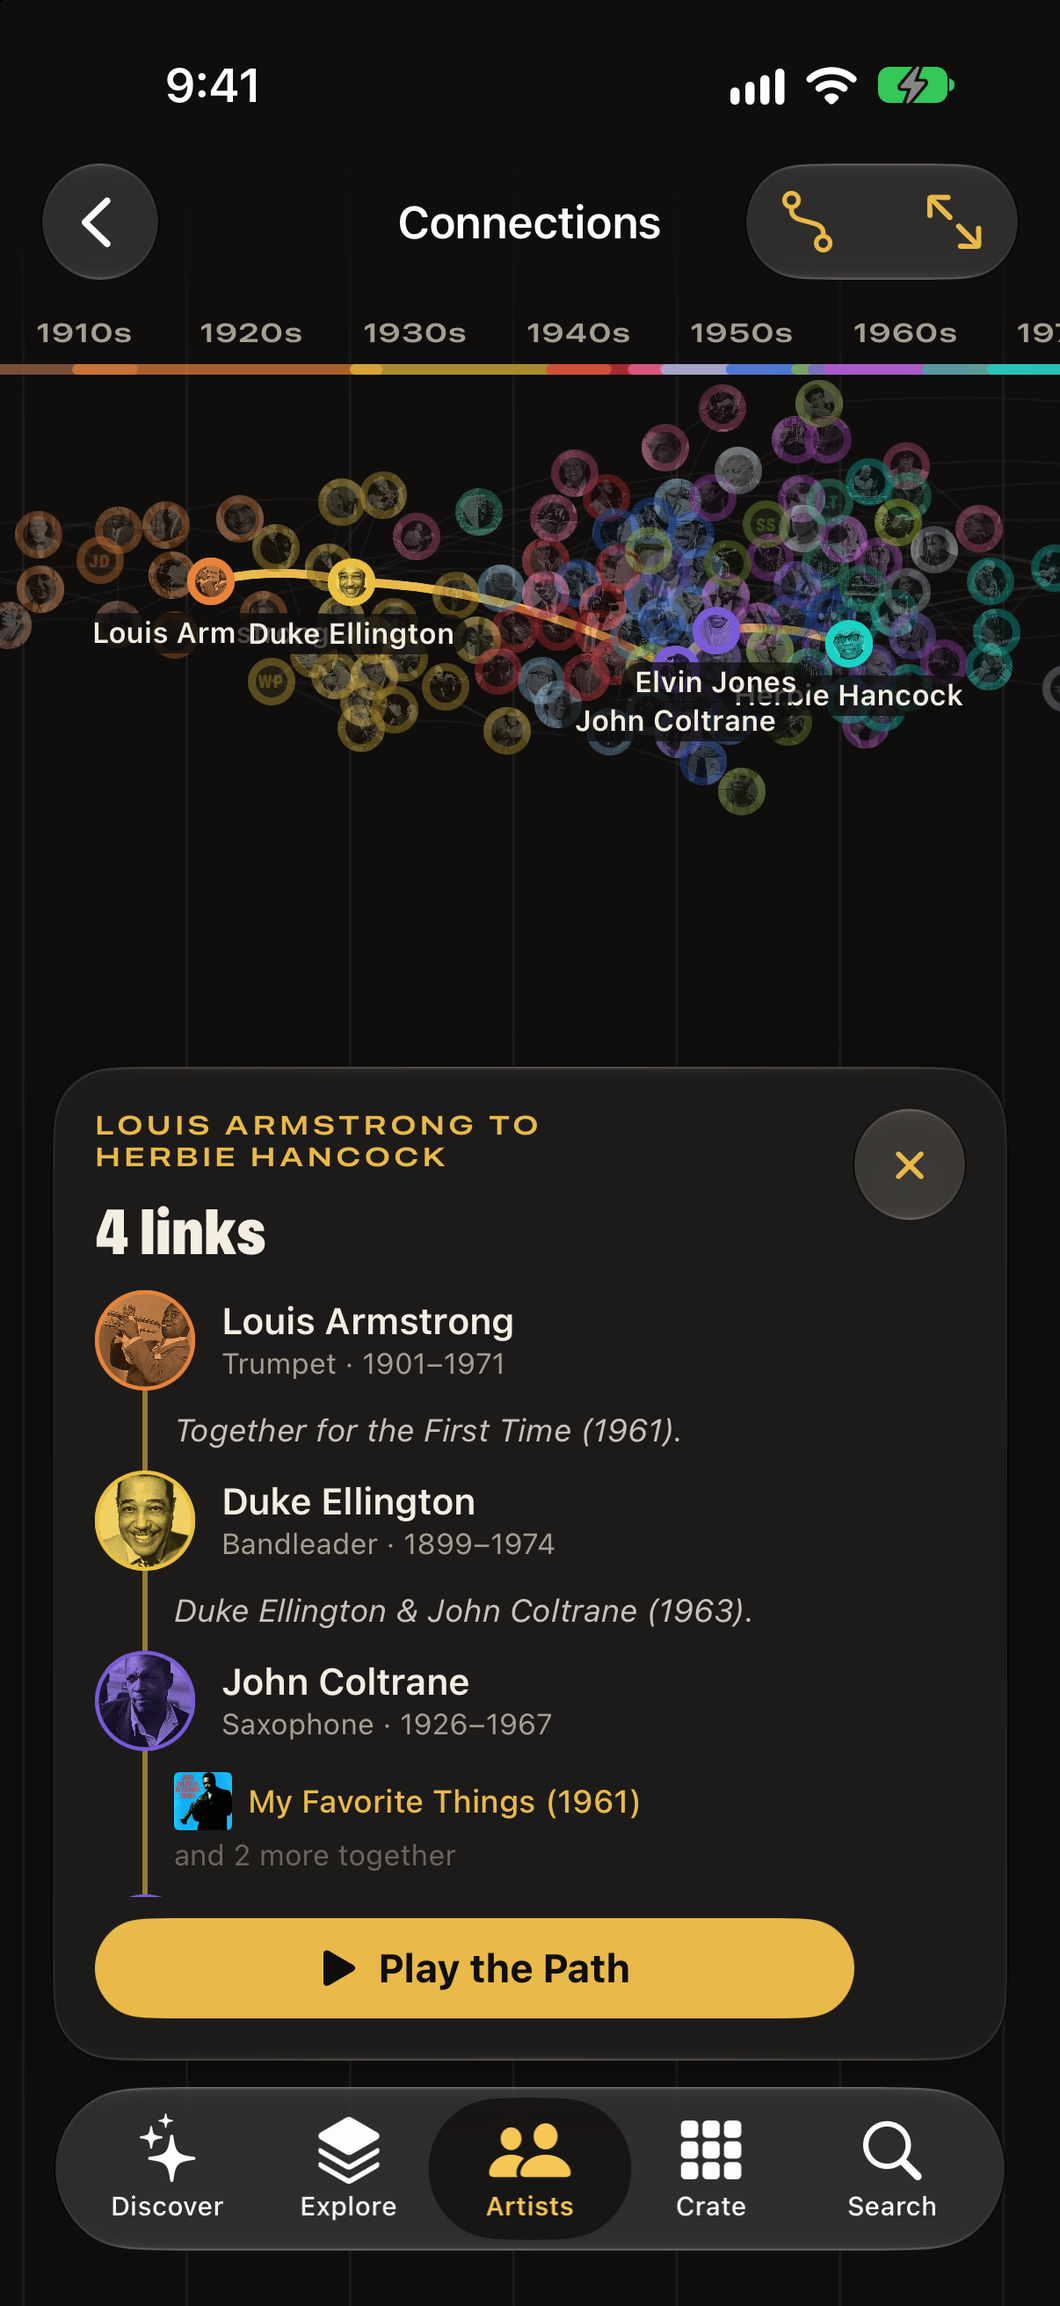
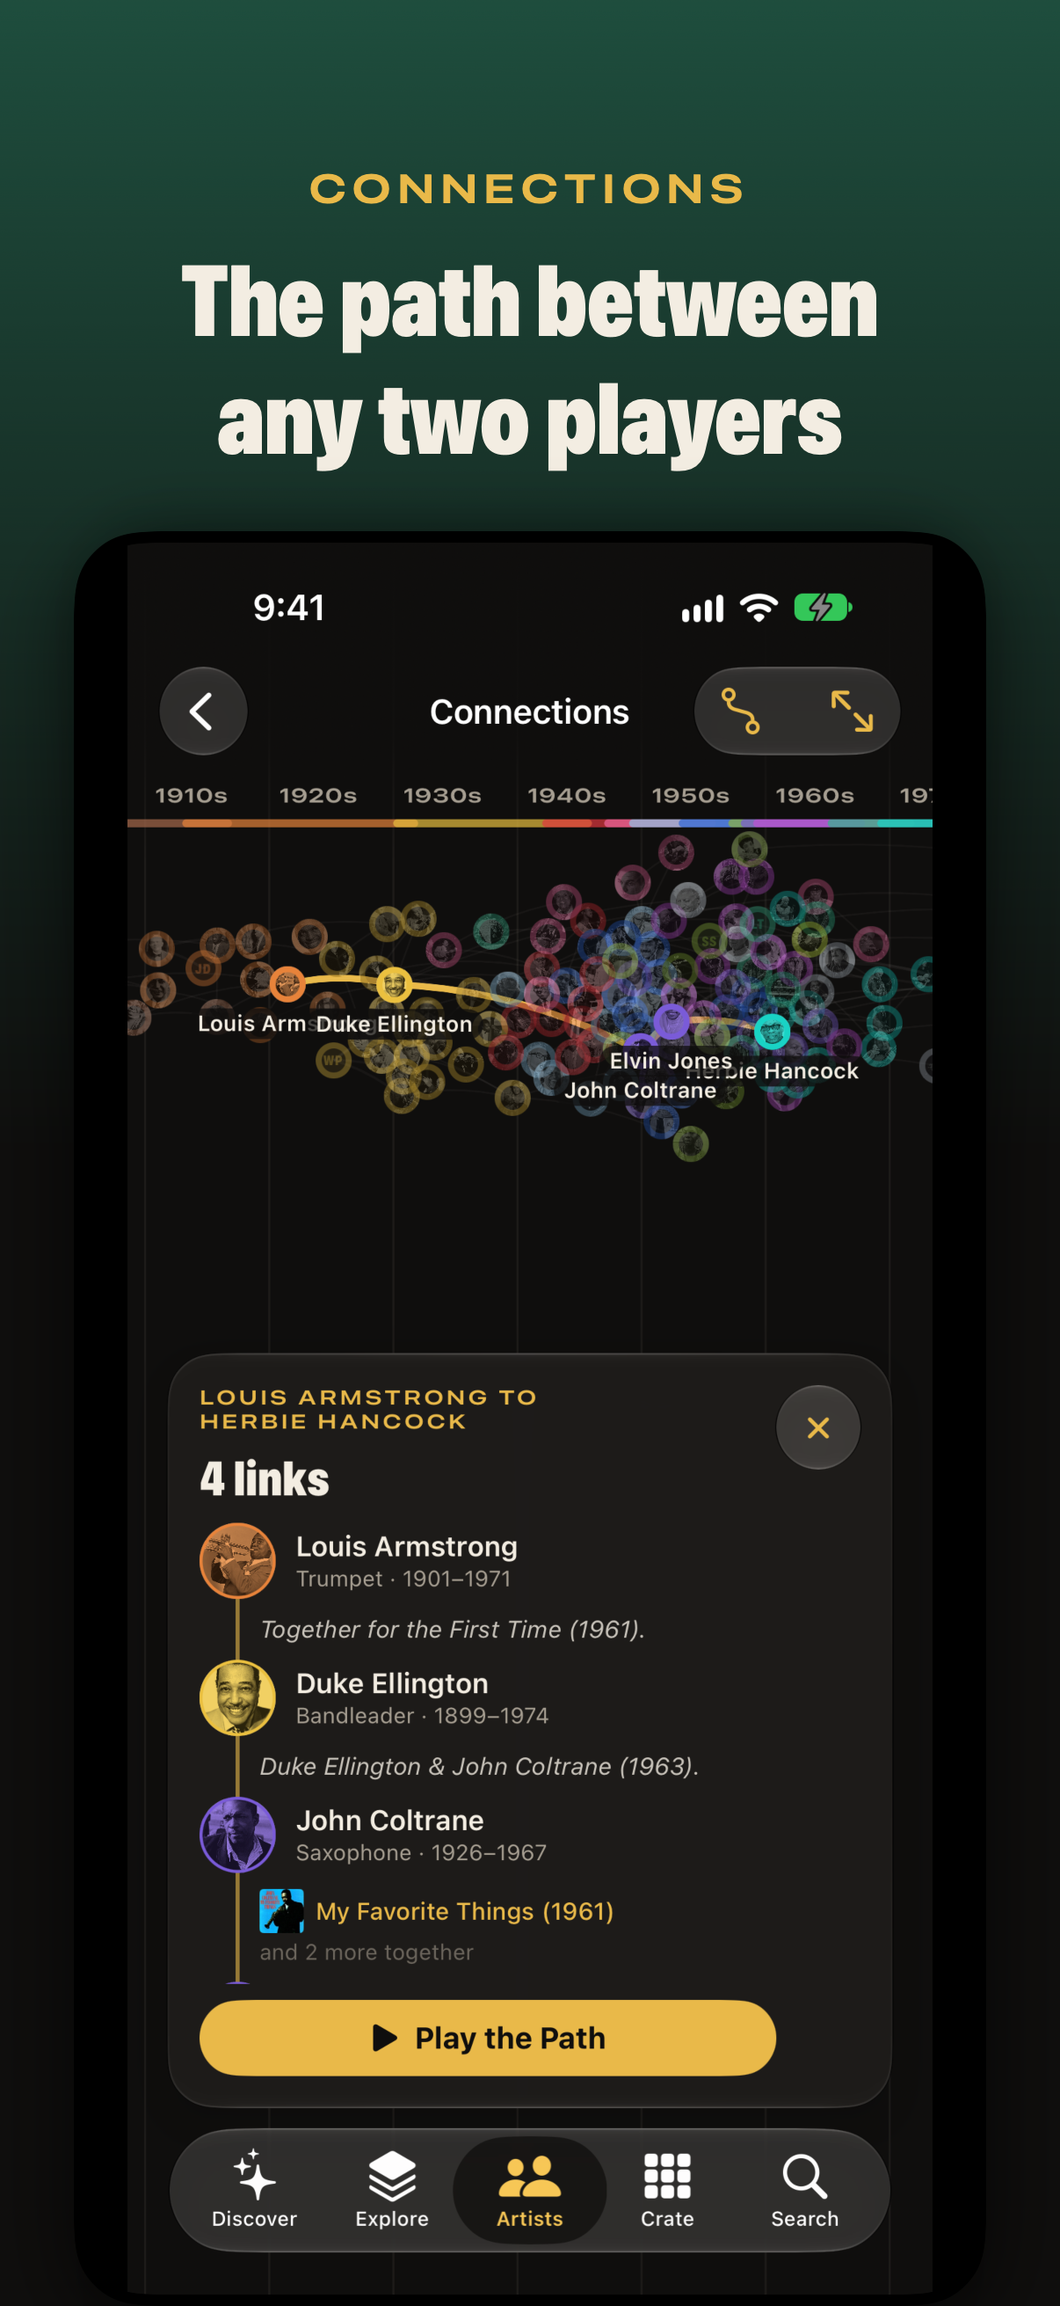
App Store listing: framed screenshots, ten per size, and text within the limits
- Screenshots: a kicker and a headline over each screen, in the app's type and the river's colours
  (scripts/app-store-art.swift, from the plain screens now kept in docs/app-store/screens/). Ten per
  size: Now Playing and Radio make way for a listening guide; widgets become 10. All flattened.
- Description 3,350 characters (was 4,801, over the 4,000 limit), with listening guides; the
  promotional text mentions them too.
- App Review notes: listening guides and Apple Music, the morning note's notification permission,
  widgets, Siri, and a suggested path through the newer sections.

diff --git a/scripts/app-store-art.swift b/scripts/app-store-art.swift
@@ -1,0 +1,127 @@
+// The App Store screenshots, framed: a kicker and a headline over each screen, in the app's own type and colours
+// (the style of 10-widgets.png, which the Mac app draws). Reads the plain screens that scripts/app-store-screenshots.sh
+// takes (docs/app-store/screens/iphone-<size>/) and writes the ones to upload (docs/app-store/iphone-<size>/), at the
+// same pixel size, without transparency.
+//
+//   swift scripts/app-store-art.swift
+import AppKit
+import SwiftUI
+
+struct Shot {
+    let name: String
+    let kicker: String
+    let headline: String
+    let tint: String
+}
+
+// The river's colours, from the app icon.
+let shots = [
+    Shot(name: "01-timeline", kicker: "FROM RAGTIME TO TODAY", headline: "130 years of jazz,\nat a glance", tint: "#E8873A"),
+    Shot(name: "02-era", kicker: "ERAS & STYLES", headline: "Every style, its sound\nand its people", tint: "#E3383F"),
+    Shot(name: "03-artist", kicker: "152 ARTISTS", headline: "Meet the people\nwho made it", tint: "#7A5CD6"),
+    Shot(name: "04-album", kicker: "130 ESSENTIAL RECORDS", headline: "Who played on\nevery record", tint: "#2D68D6"),
+    Shot(name: "05-connections", kicker: "CONNECTIONS", headline: "The path between\nany two players", tint: "#36B58C"),
+    Shot(name: "06-guide", kicker: "LISTENING GUIDES", headline: "Follow a recording\nas it plays", tint: "#1BD3C6"),
+    Shot(name: "07-places", kicker: "PLACES & LABELS", headline: "From New Orleans\nto South London", tint: "#EAC13F"),
+    Shot(name: "08-songbook", kicker: "THE SONGBOOK", headline: "One tune,\nmany versions", tint: "#E8873A"),
+    Shot(name: "09-passport", kicker: "YOUR PASSPORT", headline: "Collect every era\nas you listen", tint: "#7A5CD6"),
+]
+
+let ink = Color(red: 0x0F / 255, green: 0x0E / 255, blue: 0x0D / 255)
+let cream = Color(red: 0xF3 / 255, green: 0xED / 255, blue: 0xE2 / 255)
+let brass = Color(red: 0xE9 / 255, green: 0xB9 / 255, blue: 0x49 / 255)
+
+func color(_ hex: String) -> Color {
+    var v: UInt64 = 0
+    Scanner(string: String(hex.dropFirst())).scanHexInt64(&v)
+    return Color(red: Double((v >> 16) & 0xFF) / 255, green: Double((v >> 8) & 0xFF) / 255, blue: Double(v & 0xFF) / 255)
+}
+
+struct Frame: View {
+    let shot: Shot
+    let screen: NSImage
+    let size: CGSize
+
+    var body: some View {
+        let u = size.width / 1320   // sizes below are for the 6.9-inch canvas
+        let shotWidth = size.width * 0.84
+        ZStack(alignment: .top) {
+            LinearGradient(colors: [color(shot.tint).opacity(0.38), ink.opacity(0)], startPoint: .top, endPoint: .center)
+                .background(ink)
+            VStack(spacing: 0) {
+                Text(shot.kicker)
+                    .font(.system(size: 50 * u, weight: .semibold).width(.expanded))
+                    .tracking(9 * u)
+                    .foregroundStyle(brass)
+                    .padding(.top, 205 * u)
+                Text(shot.headline)
+                    .font(.system(size: 124 * u, weight: .black).width(.condensed))
+                    .multilineTextAlignment(.center)
+                    .lineSpacing(-6 * u)
+                    .foregroundStyle(cream)
+                    .padding(.top, 34 * u)
+                Image(nsImage: screen)
+                    .resizable()
+                    .interpolation(.high)
+                    .aspectRatio(contentMode: .fit)
+                    .frame(width: shotWidth)
+                    .clipShape(RoundedRectangle(cornerRadius: 74 * u, style: .continuous))
+                    .padding(14 * u)
+                    .background(RoundedRectangle(cornerRadius: 88 * u, style: .continuous).fill(Color.black))
+                    .shadow(color: .black.opacity(0.6), radius: 50 * u, y: 24 * u)
+                    .padding(.top, 70 * u)
+                Spacer(minLength: 0)
+            }
+            .frame(width: size.width)
+        }
+        .frame(width: size.width, height: size.height, alignment: .top)
+        .clipped()
+    }
+}
+
+/// Writes a PNG with no alpha channel (App Store Connect wants screenshots flattened).
+func writeOpaquePNG(_ image: CGImage, to url: URL) throws {
+    let w = image.width, h = image.height
+    guard let ctx = CGContext(data: nil, width: w, height: h, bitsPerComponent: 8, bytesPerRow: 0,
+                              space: CGColorSpace(name: CGColorSpace.sRGB)!,
+                              bitmapInfo: CGImageAlphaInfo.noneSkipLast.rawValue) else { throw CocoaError(.fileWriteUnknown) }
+    ctx.setFillColor(CGColor(red: 0x0F / 255, green: 0x0E / 255, blue: 0x0D / 255, alpha: 1))
+    ctx.fill(CGRect(x: 0, y: 0, width: w, height: h))
+    ctx.draw(image, in: CGRect(x: 0, y: 0, width: w, height: h))
+    guard let flat = ctx.makeImage() else { throw CocoaError(.fileWriteUnknown) }
+    let rep = NSBitmapImageRep(cgImage: flat)
+    guard let data = rep.representation(using: .png, properties: [:]) else { throw CocoaError(.fileWriteUnknown) }
+    try data.write(to: url)
+}
+
+@MainActor
+func run() throws {
+    let root = URL(fileURLWithPath: CommandLine.arguments[0]).deletingLastPathComponent().deletingLastPathComponent()
+    for size in ["6.9", "6.3"] {
+        let input = root.appendingPathComponent("docs/app-store/screens/iphone-\(size)")
+        let output = root.appendingPathComponent("docs/app-store/iphone-\(size)")
+        try FileManager.default.createDirectory(at: output, withIntermediateDirectories: true)
+        for shot in shots {
+            let src = input.appendingPathComponent("\(shot.name).png")
+            guard let screen = NSImage(contentsOf: src), let rep = screen.representations.first else {
+                print("missing \(src.path)"); continue
+            }
+            let px = CGSize(width: rep.pixelsWide, height: rep.pixelsHigh)
+            let renderer = ImageRenderer(content: Frame(shot: shot, screen: screen, size: px))
+            renderer.scale = 1
+            renderer.proposedSize = ProposedViewSize(px)
+            guard let image = renderer.cgImage else { print("couldn't draw \(shot.name)"); continue }
+            try writeOpaquePNG(image, to: output.appendingPathComponent("\(shot.name).png"))
+            print("iphone-\(size)/\(shot.name).png \(image.width)×\(image.height)")
+        }
+        // The widgets' shot comes from the Mac app with an alpha channel; flatten it in place.
+        let widgets = output.appendingPathComponent("10-widgets.png")
+        if let img = NSImage(contentsOf: widgets)?.cgImage(forProposedRect: nil, context: nil, hints: nil),
+           img.alphaInfo != .none, img.alphaInfo != .noneSkipLast, img.alphaInfo != .noneSkipFirst {
+            try writeOpaquePNG(img, to: widgets)
+            print("iphone-\(size)/10-widgets.png flattened")
+        }
+    }
+}
+
+try MainActor.assumeIsolated { try run() }

diff --git a/docs/app-store.md b/docs/app-store.md
@@ -181,7 +181,10 @@ on a real iPhone, which the simulator can't:
 In App Store Connect, the app ▸ **iOS App** ▸ the version (**+** to add one after the first release):
 
 1. **Screenshots** (Media Manager): drag in `docs/app-store/iphone-6.9/*` for the 6.9-inch display and
-   `docs/app-store/iphone-6.3/*` for 6.3-inch, in file order. Make new ones with `scripts/app-store-screenshots.sh`.
+   `docs/app-store/iphone-6.3/*` for 6.3-inch, in file order (ten each, the most App Store Connect takes). They're the
+   screens in `docs/app-store/screens/`, framed with a headline: make new screens with `scripts/app-store-screenshots.sh`,
+   then `swift scripts/app-store-art.swift` (headlines and colours are at its top). `10-widgets.png` is drawn by the Mac
+   app (`--snapshots <dir> --widgets-only`).
 2. **Promotional text**, **description**, **keywords**, **support URL**, **marketing URL** (below). After the first
    version, only **What's New** is needed (from `CHANGELOG.md`).
 3. **Build**: select the one CI uploaded in step 1.
@@ -222,13 +225,15 @@ reason" API the app uses (UserDefaults, CA92.1).
 
 ### Version text
 
-This text is for 1.11 (152 artists, 130 records, personnel, Find a Path, Passport, Radio, the Blindfold Test, the Songbook, Places and Labels, Lineages and the Glossary, Paths, listening guides, Today in Jazz, widgets, Siri). If 1.0.1 is submitted on its own first, say
-"86 artists" and leave out the *Who played on what* and *Your passport* paragraphs and the path-finding sentence.
+This text is for 1.11 (152 artists, 130 records, personnel, Find a Path, Passport, Radio, the Blindfold Test, the
+Songbook, Places and Labels, Lineages and the Glossary, Paths, listening guides, Today in Jazz, widgets, Siri). App
+Store Connect's limits: description 4,000 characters, promotional text 170, keywords 100, and ten screenshots per
+size.
 
 **Promotional text** (170 characters, can change any time without review):
 
 ```
-152 artists and 130 essential records, from ragtime to today, with who played on every one. Find the path between any two players, and listen as you go.
+152 artists and 130 essential records, from ragtime to today. Follow a recording as it plays with listening guides, and find the path between any two players.
 ```
 
 **Keywords** (100 characters):
@@ -240,61 +245,46 @@ jazz,history,bebop,swing,coltrane,miles davis,blue note,albums,artists,timeline,
 **Description**:
 
 ```
-Jazz Discovery is a visual guide to 130 years of jazz, from ragtime and the blues to the new jazz renaissance. Follow the music as it flows, splits and comes back together, meet the people who made it, and listen to the records that changed everything.
+Jazz Discovery is a visual guide to 130 years of jazz, from ragtime and the blues to today's new scenes. Follow the music as it flows, splits and comes back together, meet the people who made it, and listen to the records that changed everything.
 
 The River of Jazz
-Fourteen styles flow across a timeline like river channels, overlapping where they really did, with forty turning points along the way. Tap a style to dive in, or a dot to read what happened that year.
+Fourteen styles flow across a timeline like river channels, overlapping where they really did, with forty turning points along the way. Tap a style to dive in.
 
 Eras and decades
-Each era has its story, its sound, the places it happened, its key artists and essential records, tracks to play, documentaries and performances, and a picture archive. Or travel by decade, from the 1890s to the 2020s: the styles in the air, the turning points, the records and who was playing.
+Each era has its story, its sound, the places it happened, its key artists and essential records, with tracks to play, performances and a picture archive. Or travel by decade, from the 1890s to the 2020s.
 
-152 artists
-Leaders and the sidemen all over their records, in Blue Note–style duotone portraits, filterable by era and instrument, each with a biography, their most popular songs, their records, the records they play on, live videos and the people they played with.
-
-The Crate
-130 essential albums, by decade, with why each one matters, its tracklist and the tracks to start with. New to jazz? Follow the Start Here path, one record at a time.
-
-Who played on what
-Every album lists its band like the back of an LP: who played what, who sat out which track, when and where it was recorded, and who produced it, checked against the liner notes and discographies.
+152 artists, 130 records
+Leaders and the sidemen all over their records, in Blue Note–style duotone portraits, each with a biography, their records and the people they played with. Every album lists its band like the back of an LP: who played what, and when and where it was recorded. New to jazz? Follow Start Here, one record at a time.
 
 Connections
-A map of who played with whom across the whole century, drawn from the records they share: tap a face to light up their circle, and another to see what ties them. Find the shortest path between any two artists, from Scott Joplin to Nubya Garcia, and play one track from each link.
-
-The Songbook
-Forty standards and jazz originals, each a page with its story and the versions that made it matter, from the first recording to last decade's, with what to listen for in each. Play them in order and hear the same song travel.
-
-Today in jazz
-Whose birthday it is, what was recorded on this date, and a calendar for the whole year. Every day has a reason to open the app, and a widget for your Home Screen and Lock Screen; another keeps your next path stop in view.
-
-Ask Siri
-"Play bebop radio", "What happened in jazz today" or "Play my next stop", and find any artist, record or tune from Spotlight.
-
-Paths
-Journeys with a point of view, from Start Here to 1959, Late Night and The Latin Tinge: a few stops each, every one with something to listen for, and your place kept.
+A map of who played with whom across the century, drawn from the records they share. Find the shortest path between any two artists, from Scott Joplin to Nubya Garcia, and hear one track from each link.
 
 Listening guides
-Follow a whole recording as it plays, from So What to The Girl from Ipanema: its form drawn as a bar, the head, each solo and the way out, and a note on what to hear in each section, moving with the music. Tap a section to jump to it. (Guides follow full tracks, with Apple Music.)
+Follow a recording as it plays, from So What to The Girl from Ipanema: its form drawn as a bar (the head, each solo, the way out) and a note on what to hear in each section, moving with the music. Tap a section to jump to it. Guides follow full tracks, with Apple Music.
+
+Paths
+Journeys with a point of view, from 1959 to Late Night and The Latin Tinge: a few stops each, every one with something to listen for, and your place kept.
+
+The Songbook
+Forty standards and jazz originals, each with its story and the versions that made it matter. Play them in order and hear one song travel through the decades.
 
 Lineages and the glossary
-Family trees for the trumpet, the saxophone, the piano, the drums and the voice, showing who learned from whom, and a glossary of the words jazz uses, from swing to sheets of sound, each with a recording to hear it in. New to jazz? How to Listen walks you through one record in five steps.
+Family trees for the trumpet, saxophone, piano, bass, guitar, drums and voice, showing who learned from whom, and a glossary of the words jazz uses, each with a recording to hear it in. How to Listen walks you through one record in five steps.
 
 Places and labels
-A map of jazz with a time slider, from New Orleans in 1895 to South London today, with a page for every city, club and studio, and the records made there. And the labels, from Blue Note to ECM, with their sound, their look and a wall of their covers.
+A map of jazz with a time slider, from New Orleans in 1895 to South London today, with a page for every city, club and studio. And the labels, from Blue Note to ECM, with a wall of their covers.
 
-Radio
-Stations for every era, decade and instrument, plus The Long Way through 130 years in order. They keep playing, and the player tells you why each track is there.
+Radio and the Blindfold Test
+Stations for every era, decade, instrument, city and label, that tell you why each track is there. Then test your ears: ten clips, covers hidden.
 
-The Blindfold Test
-Ten clips, covers hidden: name the era, the player, the lead instrument, or which came first. Easy or hard, every era or just one.
+Today in jazz
+Whose birthday it is and what was recorded on this date, with widgets for your Home Screen and Lock Screen and an optional morning note. Ask Siri to "play bebop radio", or find any record in Spotlight.
 
 Your passport
-Mark the records you've heard (or let the app notice when you play one through) and save the ones to come back to. Every era has a stamp that inks in as you hear its records, and every record opens three doors: the record that shares the most players with it, the style that came next, and an echo of it playing today. It syncs between your iPhone and Mac through your own iCloud, and can start from your Last.fm history.
+Mark the records you've heard and save the ones to come back to. Every era has a stamp that inks in as you listen, and every record opens three doors to what to hear next. It syncs through your own iCloud and can start from your Last.fm history.
 
-Listen and watch
-Connect Apple Music to play every song and album in full; without a subscription you hear 30-second previews, and everything opens in the Music app with one tap. Playback continues on the lock screen and works with AirPlay. Videos play right in the app.
-
-Scrobble to Last.fm
-Connect your Last.fm account and the full tracks you play are added to your profile, even when you're offline: they're sent when you're back.
+Listen and scrobble
+Connect Apple Music to play everything in full; without a subscription you hear 30-second previews. Connect Last.fm and the full tracks you play are added to your profile.
 
 No account, no ads, no tracking. Text and photos from Wikipedia and Wikimedia Commons; artwork and previews from Apple Music.
 
@@ -314,5 +304,9 @@ Last.fm (optional): Settings > Last.fm connects the user's own Last.fm account, 
 
 Background audio is used only to keep music playing while the phone is locked.
 
-Suggested path: Discover (scroll the River of Jazz sideways and tap a style), an era page, an artist (Artists tab), the Explore tab (eras, decades, the Songbook, the Places map with its time slider, Labels, Lineages, the Glossary), an album (Crate tab) with its Personnel, Play, Mark as Heard and Save buttons and its three doors at the bottom, the Radio row and the Blindfold Test card on the Discover tab, the Passport (the seal button at the top right), Artists > Connections (pinch and tap faces, then the path button at the top to find a path between two artists), and Search.
+Listening guides (Discover > Listening Guides) follow a recording section by section while it plays in full with Apple Music. Without Apple Music the guide is still readable and says it can't follow a 30-second preview.
+
+Notifications are off unless the user turns on the morning note (Settings > Today in Jazz); it is scheduled on the device, and permission is asked only then. Widgets: Today in Jazz and Continue, for the Home Screen and Lock Screen. Siri and Shortcuts: "Play bebop radio on Jazz Discovery", "What happened in jazz today in Jazz Discovery".
+
+Suggested path: Discover (Today in Jazz at the top, then scroll the River of Jazz sideways and tap a style; the Paths, Listening Guides and Radio rows; the Blindfold Test card), an era page, an artist (Artists tab), an album (Crate tab) with its Personnel, Play, Mark as Heard and Save buttons and its three doors at the bottom, the Explore tab (eras, decades, the Songbook, the Places map with its time slider, Labels, Lineages, the Glossary), the Passport (the seal button at the top right), Artists > Connections (pinch and tap faces, then the path button at the top to find a path between two artists), and Search.
 ```
